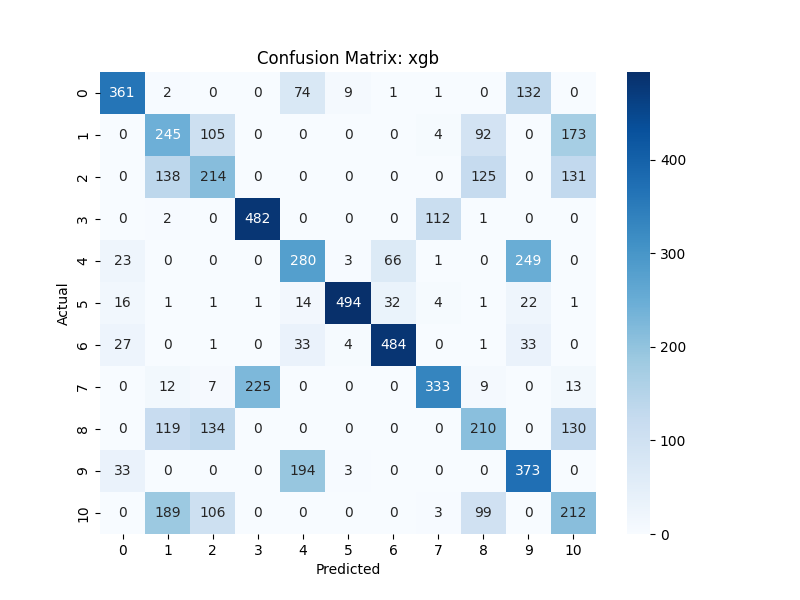
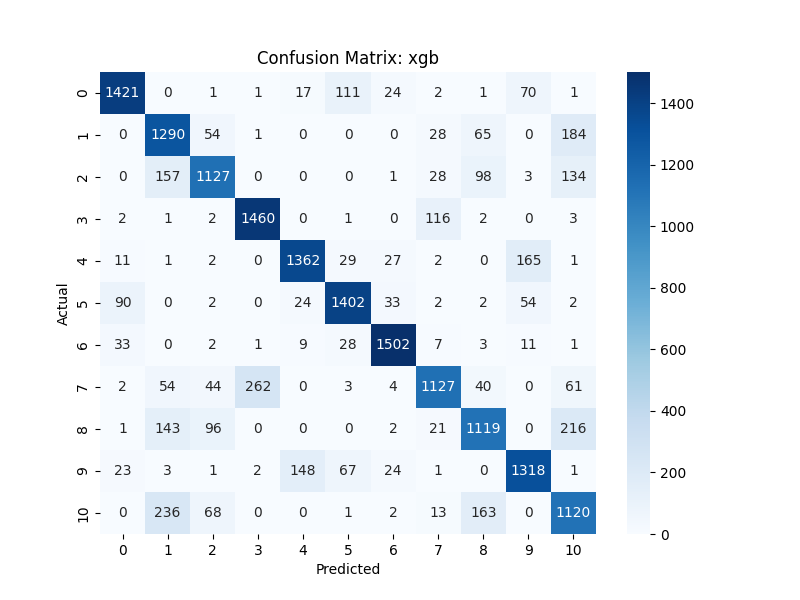
Implemented ResNet50 Preprocessing for XGBoost

diff --git a/XGBoost/XGBoostResnet.py b/XGBoost/XGBoostResnet.py
@@ -1,5 +1,5 @@
 from sklearn.pipeline import make_pipeline
-from sklearn.model_selection import train_test_split
+from sklearn.model_selection import train_test_split, GridSearchCV
 import matplotlib.pyplot as plt
 import seaborn as sns
 from sklearn.metrics import confusion_matrix, classification_report
@@ -7,9 +7,14 @@ from sklearn.preprocessing import StandardScaler, LabelEncoder
 import cv2
 import numpy as np
 from xgboost import XGBClassifier
+from sklearn.decomposition import PCA
 import os
+from tensorflow.keras.applications import ResNet50
+from tensorflow.keras.applications.resnet50 import preprocess_input
 
+# Load images function
 def load_images(dir, limit=100):
+    model = ResNet50(weights='imagenet', include_top=False, pooling='avg')
     images = []
     labels = []
     for root, dirs, files in os.walk(dir):
@@ -17,48 +22,55 @@ def load_images(dir, limit=100):
             if file.endswith('.jpg'):
                 image_path = os.path.join(root, file)
                 image = cv2.imread(image_path, cv2.IMREAD_COLOR)
-                image = cv2.resize(image, (256, 256))  # Resize to 128x128
-                images.append(image.flatten())  # Flatten the image
-                print(image.shape)
-                labels.append(root.split("/")[-1])  # Use folder name as label
-    
-    return np.array(images), labels  # Return as a NumPy array
+                image = cv2.resize(image, (224, 224))  # Required size for ResNet
+                image = preprocess_input(image)
+                image = np.expand_dims(image, axis=0)
+                features = model.predict(image)
+                images.append(features.flatten())
+                labels.append(root.split("/")[-1])
+    return np.array(images), labels
 
+# Save confusion matrix function
 def save_conf_mat(y_true, y_pred, name):
     cm = confusion_matrix(y_true, y_pred)
-    # Create a heatmap using Seaborn
     plt.figure(figsize=(8, 6))
-
     sns.heatmap(cm, annot=True, fmt='d', cmap='Blues')
     plt.title(f'Confusion Matrix: {name}')
     plt.xlabel('Predicted') 
     plt.ylabel('Actual')
-    # Save the image
     plt.savefig(f'{name}_confusion_matrix.png')
     plt.clf()
 
 # Load images and labels
-num_images = 10000  # Use more images for training if possible
+num_images = 10000 # Use more images for training if possible
 X, y = load_images("/home/datasets/spark22-dataset", num_images)
 
 # Convert string labels to numeric values
 label_encoder = LabelEncoder()
 y = label_encoder.fit_transform(y)
 
-# Define the pipeline without PCA
+# Define the pipeline with PCA
 pipeline = make_pipeline(
     StandardScaler(),  # Normalize the data
-    XGBClassifier(random_state=42),  # XGBoost classifier
+    XGBClassifier(
+        random_state=42,
+        colsample_bytree=0.9, # 0.9 seems to work best
+        max_depth=3, # 3 seems to work best
+        learning_rate=0.2, # 0.2 seems to work best
+        n_estimators=300, # 300 works best
+        subsample=0.8, # 0.8 works best
+        min_child_weight = 3, # 3 works best 
+        reg_alpha = 0.01
+    ), # XGBoost classifier
     verbose=True
 )
 
 # Split the data into training and testing sets
 X_train, X_test, y_train, y_test = train_test_split(X, y, test_size=0.2, random_state=42)
 
-# Fit the pipeline to the training data
 pipeline.fit(X_train, y_train)
 
-# Make predictions
+# Make predictions on the test set using the best model
 y_pred = pipeline.predict(X_test)
 
 # Evaluate the model
